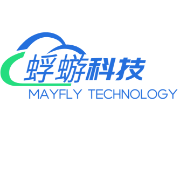
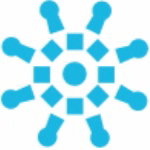
修改奈斐科技logo和联系人

diff --git a/about.html b/about.html
@@ -2,6 +2,9 @@
 <html>
  <head> 
   <meta http-equiv="Content-Type" content="text/html; charset=utf-8" /> 
+  <link rel="apple-touch-icon" sizes="180x180" href="/apple-touch-icon.png">
+  <link rel="icon" type="image/png" sizes="32x32" href="images/favicon-32x32.png">
+  <link rel="icon" type="image/png" sizes="16x16" href="images/favicon-16x16.png">
   <title>关于我们-about.html</title> 
   <link rel="stylesheet" type="text/css" href="css/basic.css" /> 
   <link rel="stylesheet" type="text/css" href="css/inner.css" /> 
@@ -27,7 +30,7 @@
           咨询热线：134 0207 4050
          </div> 
          <div class="mail">
-          咨询邮箱：sales@fuyou.com
+          咨询邮箱：sales@naifei.tech
          </div> 
          <div class="clear"></div> 
         </div> 
@@ -81,7 +84,7 @@
          我们是谁？
         </div> 
         <div class="general_con_c_ri_word">
-         蜉蝣科技（上海）有限公司简称&quot;蜉蝣&quot;，是一家专业的上海软件设计公司， 以领先的设计水平和技术实力，打造行业品牌、树立形象，为客户提供企业数字化转型方案、软件研发、网络营销、网站制作等服务。蜉蝣始终以务实、诚信为根本，不断创新和提高建站品质，通过对领先技术的掌握、对创意设计的研究、对客户形象的视觉传递、对应用系统的完美结合，为客户提供更好的一站式产业互联网解决方案，以客户的口碑塑造品牌，携手广大客户，共同发展进步。 
+         奈斐科技（上海）有限公司简称&quot;奈斐&quot;，是一家专业的上海软件设计公司， 以领先的设计水平和技术实力，打造行业品牌、树立形象，为客户提供企业数字化转型方案、软件研发、网络营销、网站制作等服务。奈斐始终以务实、诚信为根本，不断创新和提高建站品质，通过对领先技术的掌握、对创意设计的研究、对客户形象的视觉传递、对应用系统的完美结合，为客户提供更好的一站式产业互联网解决方案，以客户的口碑塑造品牌，携手广大客户，共同发展进步。 
         </div> 
         <div class="general_con_c_ri_int">
           以方正树立诚信人格，用思维创造崭新明天。
@@ -189,7 +192,7 @@
          <span>创作思维</span>，为您创作出一流的品牌互联网形象！
         </div> 
         <div class="general_con_c_ri_word">
-         蜉蝣服务团队是一支充满着热情的团队，执着、敏锐、追求更好是蜉蝣的特色 竭诚为客户提供服务是我们的理念。 一个人能走多远，取决于与谁同行，网络科技团队是一个富有理想和激情的团队，是一个蓬勃向上并富有朝气的团队，也是一个技术专业化、管理人性化、创新性和学习型的优秀团队。 
+         奈斐服务团队是一支充满着热情的团队，执着、敏锐、追求更好是奈斐的特色 竭诚为客户提供服务是我们的理念。 一个人能走多远，取决于与谁同行，网络科技团队是一个富有理想和激情的团队，是一个蓬勃向上并富有朝气的团队，也是一个技术专业化、管理人性化、创新性和学习型的优秀团队。 
         </div> 
        </div> 
        <div class="clear"></div> 
@@ -256,7 +259,7 @@
           <br /> 如果你爱设计、爱创意，有出众的美感和过剩的灵感 而且一直勤奋地创作了大量作品。那么，你很可能就是我们在找的人
          </div> 
          <div class="jion_mail">
-          咨询邮箱：hr@fuyou.com
+          咨询邮箱：hr@naifei.tech
          </div> 
         </div> 
        </div> 
@@ -367,7 +370,7 @@
   <footer>       
     <div class="bottom"> 
      <div class="bottom_con">
-       Copyright@2023 蜉蝣科技（上海）有限公司 &nbsp&nbsp&nbsp&nbsp&nbsp&nbsp 地址：中国（上海）自由贸易试验区张衡路200号2幢3层
+      Copyright@2023 上海奈斐科技有限公司 &nbsp&nbsp&nbsp&nbsp&nbsp&nbsp 地址：上海市宝山区长江西路2311号1-2层
      </div> 
     </div> 
    </footer> 

diff --git a/index.html b/index.html
@@ -5,18 +5,18 @@
   <meta http-equiv="Content-Type" content="text/html; charset=utf-8" />
   <meta name="keywords" content="企业数字化咨询，软件开发" />
   <meta name="description" content="软件开发，小程序，后台管理系统，企业数字化咨询" />
-  <meta itemprop="name" content="蜉蝣科技丨FUYOO -互联，互惠，共生" />
+  <meta itemprop="name" content="奈斐科技丨NAIFEI -互联，互惠，共生" />
   <meta http-equiv="Content-Type" content="text/html; charset=utf-8" />
   <meta http-equiv="Cache-Control" content="no-transform" />
   <meta http-equiv="X-UA-Compatible" content="IE=edge" />
   <meta name="format-detection" content="telephone=no,email=no,address=no" />
   <meta name="renderer" content="webkit" />
-  <meta property="og:url" content="http://www.fuyou.com">
+  <meta property="og:url" content="http://www.naifei.tech">
   <link rel="apple-touch-icon" sizes="180x180" href="/apple-touch-icon.png">
   <link rel="icon" type="image/png" sizes="32x32" href="images/favicon-32x32.png">
   <link rel="icon" type="image/png" sizes="16x16" href="images/favicon-16x16.png">
   <link rel="manifest" href="/site.webmanifest">
-  <title>蜉蝣科技丨FUYOU -互联，互惠，共生</title>
+  <title>奈斐科技丨NAIFEI -互联，互惠，共生</title>
   <script type="text/javascript">
     if ((navigator.userAgent.match(/(iPhone|iPod|Android|ios)/i))) {
       location.replace("http://demo1.mycodes.net/qiye/wangluokejigongsi");
@@ -48,7 +48,7 @@
             咨询热线：134 0207 4050
           </div>
           <div class="mail">
-            咨询邮箱：sales@fuyou.com
+            咨询邮箱：sales@naifei.tech
           </div>
           <div class="clear"></div>
         </div>
@@ -56,7 +56,7 @@
       <div class="head_bg">
         <div class="head">
           <div class="logo fl">
-            <h1><a href="index.html"><img src="images/logo.png" width="166px" height="64px" /></a></h1>
+            <h1><a href="index.html"><img src="images/logo.png" width="166px" height="55px" /></a></h1>
           </div>
           <div class="menu fr">
             <nav>
@@ -236,7 +236,7 @@
   <footer>
     <div class="bottom">
       <div class="bottom_con">
-        Copyright@2023 蜉蝣科技（上海）有限公司 &nbsp&nbsp&nbsp&nbsp&nbsp&nbsp 地址：中国（上海）自由贸易试验区张衡路200号2幢3层
+        Copyright@2023 上海奈斐科技有限公司 &nbsp&nbsp&nbsp&nbsp&nbsp&nbsp 地址：上海市宝山区长江西路2311号1-2层
       </div>
     </div>
   </footer>

diff --git a/service.html b/service.html
@@ -2,6 +2,9 @@
 <html>
  <head> 
   <meta http-equiv="Content-Type" content="text/html; charset=utf-8" /> 
+  <link rel="apple-touch-icon" sizes="180x180" href="/apple-touch-icon.png">
+  <link rel="icon" type="image/png" sizes="32x32" href="images/favicon-32x32.png">
+  <link rel="icon" type="image/png" sizes="16x16" href="images/favicon-16x16.png">
   <title>服务范围-service.html</title> 
   <link rel="stylesheet" type="text/css" href="css/basic.css" /> 
   <link rel="stylesheet" type="text/css" href="css/inner.css" /> 
@@ -24,7 +27,7 @@
               咨询热线：134 0207 4050
              </div> 
              <div class="mail">
-              咨询邮箱：sales@fuyou.com
+              咨询邮箱：sales@naifei.tech
              </div> 
              <div class="clear"></div> 
             </div> 
@@ -61,9 +64,9 @@
       <table width="400" border="0" cellspacing="0" cellpadding="0"> 
        <tbody>
         <tr> 
-         <td><img src="images/inner_content_title.png" alt="蜉蝣科技（上海）有限公司" /></td> 
+         <td><img src="images/inner_content_title.png" alt="奈斐科技（上海）有限公司" /></td> 
          <td>服务项目</td> 
-         <td><img src="images/inner_content_title.png" alt="蜉蝣科技（上海）有限公司" /></td> 
+         <td><img src="images/inner_content_title.png" alt="奈斐科技（上海）有限公司" /></td> 
         </tr> 
        </tbody>
       </table> 
@@ -301,7 +304,7 @@
   <footer>       
     <div class="bottom"> 
      <div class="bottom_con">
-       Copyright@2023 蜉蝣科技（上海）有限公司 &nbsp&nbsp&nbsp&nbsp&nbsp&nbsp 地址：中国（上海）自由贸易试验区张衡路200号2幢3层
+      Copyright@2023 上海奈斐科技有限公司 &nbsp&nbsp&nbsp&nbsp&nbsp&nbsp 地址：上海市宝山区长江西路2311号1-2层
      </div> 
     </div> 
    </footer>

diff --git a/contact.html b/contact.html
@@ -2,6 +2,9 @@
 <html>
  <head> 
   <meta http-equiv="Content-Type" content="text/html; charset=utf-8" /> 
+  <link rel="apple-touch-icon" sizes="180x180" href="/apple-touch-icon.png">
+  <link rel="icon" type="image/png" sizes="32x32" href="images/favicon-32x32.png">
+  <link rel="icon" type="image/png" sizes="16x16" href="images/favicon-16x16.png">
   <title>联系我们-contact.html</title> 
   <link rel="stylesheet" type="text/css" href="css/basic.css" /> 
   <link rel="stylesheet" type="text/css" href="css/inner.css" /> 
@@ -24,7 +27,7 @@
           咨询热线：134 0207 4050
          </div> 
          <div class="mail">
-          咨询邮箱：sales@fuyou.com
+          咨询邮箱：sales@naifei.tech
          </div> 
          <div class="clear"></div> 
         </div> 
@@ -84,7 +87,7 @@
          <div class="contact_type_ad_int">
           联系电话 | 021-8331 6336
           <br /> 传真 | 021-8389 6336
-          <br /> Email | service@fuyou.com
+          <br /> Email | service@naifei.tech
          </div> 
          <div class="contact_type_ad_button" style="background:#91bb4f;">
           Contact
@@ -147,7 +150,7 @@
   <footer>       
     <div class="bottom"> 
      <div class="bottom_con">
-      @2023 版权所有 蜉蝣科技（上海）有限公司 &nbsp&nbsp&nbsp&nbsp 地址：中国（上海）自由贸易试验区张衡路200号2幢3层
+      Copyright@2023 上海奈斐科技有限公司 &nbsp&nbsp&nbsp&nbsp&nbsp&nbsp 地址：上海市宝山区长江西路2311号1-2层
      </div> 
     </div> 
    </footer> 

diff --git a/solutions.html b/solutions.html
@@ -2,6 +2,9 @@
 <html>
  <head> 
   <meta http-equiv="Content-Type" content="text/html; charset=utf-8" /> 
+  <link rel="apple-touch-icon" sizes="180x180" href="/apple-touch-icon.png">
+  <link rel="icon" type="image/png" sizes="32x32" href="images/favicon-32x32.png">
+  <link rel="icon" type="image/png" sizes="16x16" href="images/favicon-16x16.png">
   <title>解决方案-solutions.html</title> 
   <link rel="stylesheet" type="text/css" href="css/basic.css" /> 
   <link rel="stylesheet" type="text/css" href="css/inner.css" /> 
@@ -27,7 +30,7 @@
               咨询热线：134 0207 4050
              </div> 
              <div class="mail">
-              咨询邮箱：sales@fuyou.com
+              咨询邮箱：sales@naifei.tech
              </div> 
              <div class="clear"></div> 
             </div> 
@@ -300,7 +303,7 @@
   <footer>       
     <div class="bottom"> 
      <div class="bottom_con">
-       Copyright@2023 蜉蝣科技（上海）有限公司 &nbsp&nbsp&nbsp&nbsp&nbsp&nbsp 地址：中国（上海）自由贸易试验区张衡路200号2幢3层
+      Copyright@2023 上海奈斐科技有限公司 &nbsp&nbsp&nbsp&nbsp&nbsp&nbsp 地址：上海市宝山区长江西路2311号1-2层
      </div> 
     </div> 
    </footer>

diff --git a/mobile.html b/mobile.html
@@ -2,6 +2,9 @@
 <html>
  <head> 
   <meta http-equiv="Content-Type" content="text/html; charset=utf-8" /> 
+  <link rel="apple-touch-icon" sizes="180x180" href="/apple-touch-icon.png">
+  <link rel="icon" type="image/png" sizes="32x32" href="images/favicon-32x32.png">
+  <link rel="icon" type="image/png" sizes="16x16" href="images/favicon-16x16.png">
   <title>移动终端-mobile.html</title> 
   <link rel="stylesheet" type="text/css" href="css/basic.css" /> 
   <link rel="stylesheet" type="text/css" href="css/inner.css" /> 
@@ -24,7 +27,7 @@
               咨询热线：134 0207 4050
              </div> 
              <div class="mail">
-              咨询邮箱：sales@fuyou.com
+              咨询邮箱：sales@naifei.tech
              </div> 
              <div class="clear"></div> 
             </div> 
@@ -285,7 +288,7 @@
   <footer>       
     <div class="bottom"> 
      <div class="bottom_con">
-       Copyright@2023 蜉蝣科技（上海）有限公司 &nbsp&nbsp&nbsp&nbsp&nbsp&nbsp 地址：中国（上海）自由贸易试验区张衡路200号2幢3层
+      Copyright@2023 上海奈斐科技有限公司 &nbsp&nbsp&nbsp&nbsp&nbsp&nbsp 地址：上海市宝山区长江西路2311号1-2层
      </div> 
     </div> 
    </footer>

diff --git a/cases.html b/cases.html
@@ -2,6 +2,9 @@
 <html>
  <head> 
   <meta http-equiv="Content-Type" content="text/html; charset=utf-8" /> 
+  <link rel="apple-touch-icon" sizes="180x180" href="/apple-touch-icon.png">
+  <link rel="icon" type="image/png" sizes="32x32" href="images/favicon-32x32.png">
+  <link rel="icon" type="image/png" sizes="16x16" href="images/favicon-16x16.png">
   <title>案例-cases.html</title> 
   <link rel="stylesheet" type="text/css" href="css/basic.css" /> 
   <link rel="stylesheet" type="text/css" href="css/inner.css" /> 
@@ -25,7 +28,7 @@
           咨询热线：134 0207 4050
          </div> 
          <div class="mail">
-          咨询邮箱：sales@fuyou.com
+          咨询邮箱：sales@naifei.tech
          </div> 
          <div class="clear"></div> 
         </div> 
@@ -247,7 +250,7 @@
   <footer>       
     <div class="bottom"> 
      <div class="bottom_con">
-       Copyright@2023 蜉蝣科技（上海）有限公司 &nbsp&nbsp&nbsp&nbsp&nbsp&nbsp 地址：中国（上海）自由贸易试验区张衡路200号2幢3层
+      Copyright@2023 上海奈斐科技有限公司 &nbsp&nbsp&nbsp&nbsp&nbsp&nbsp 地址：上海市宝山区长江西路2311号1-2层
      </div> 
     </div> 
    </footer>

diff --git a/news.html b/news.html
@@ -1,7 +1,10 @@
 <!DOCTYPE html>
 <html>
  <head> 
-  <meta http-equiv="Content-Type" content="text/html; charset=utf-8" /> 
+  <meta http-equiv="Content-Type" content="text/html; charset=utf-8" />
+  <link rel="apple-touch-icon" sizes="180x180" href="/apple-touch-icon.png">
+  <link rel="icon" type="image/png" sizes="32x32" href="images/favicon-32x32.png">
+  <link rel="icon" type="image/png" sizes="16x16" href="images/favicon-16x16.png"> 
   <title>新闻动态-news.html</title> 
   <link rel="stylesheet" type="text/css" href="css/basic.css" /> 
   <link rel="stylesheet" type="text/css" href="css/inner.css" /> 
@@ -395,7 +398,7 @@
   <footer>       
     <div class="bottom"> 
      <div class="bottom_con">
-       Copyright@2023 蜉蝣科技（上海）有限公司 &nbsp&nbsp&nbsp&nbsp&nbsp&nbsp 地址：中国（上海）自由贸易试验区张衡路200号2幢3层
+      Copyright@2023 上海奈斐科技有限公司 &nbsp&nbsp&nbsp&nbsp&nbsp&nbsp 地址：上海市宝山区长江西路2311号1-2层
      </div> 
     </div> 
    </footer>

diff --git a/cases_detail.html b/cases_detail.html
@@ -2,6 +2,9 @@
 <html>
  <head> 
   <meta http-equiv="Content-Type" content="text/html; charset=utf-8" /> 
+  <link rel="apple-touch-icon" sizes="180x180" href="/apple-touch-icon.png">
+  <link rel="icon" type="image/png" sizes="32x32" href="images/favicon-32x32.png">
+  <link rel="icon" type="image/png" sizes="16x16" href="images/favicon-16x16.png">
   <title>案例详情-cases_detail.html</title> 
   <link href="css/basic.css" rel="stylesheet" type="text/css" /> 
   <link rel="stylesheet" type="text/css" href="/Public/Webcss/basic.css" /> 
@@ -82,7 +85,7 @@
   <footer>       
     <div class="bottom"> 
      <div class="bottom_con">
-       Copyright@2023 蜉蝣科技（上海）有限公司 &nbsp&nbsp&nbsp&nbsp&nbsp&nbsp 地址：中国（上海）自由贸易试验区张衡路200号2幢3层
+      Copyright@2023 上海奈斐科技有限公司 &nbsp&nbsp&nbsp&nbsp&nbsp&nbsp 地址：上海市宝山区长江西路2311号1-2层
      </div> 
     </div> 
    </footer> 

diff --git a/solutions_detail.html b/solutions_detail.html
@@ -2,6 +2,9 @@
 <html>
  <head> 
   <meta http-equiv="Content-Type" content="text/html; charset=utf-8" /> 
+  <link rel="apple-touch-icon" sizes="180x180" href="/apple-touch-icon.png">
+  <link rel="icon" type="image/png" sizes="32x32" href="images/favicon-32x32.png">
+  <link rel="icon" type="image/png" sizes="16x16" href="images/favicon-16x16.png">
   <title>解决方案-详情-solutions_detail.html</title> 
   <link rel="stylesheet" type="text/css" href="css/basic.css" /> 
   <link rel="stylesheet" type="text/css" href="css/inner.css" /> 
@@ -82,7 +85,7 @@
   <footer>       
     <div class="bottom"> 
      <div class="bottom_con">
-       Copyright@2023 蜉蝣科技（上海）有限公司 &nbsp&nbsp&nbsp&nbsp&nbsp&nbsp 地址：中国（上海）自由贸易试验区张衡路200号2幢3层
+      Copyright@2023 上海奈斐科技有限公司 &nbsp&nbsp&nbsp&nbsp&nbsp&nbsp 地址：上海市宝山区长江西路2311号1-2层
      </div> 
     </div> 
    </footer>

diff --git a/news_detail.html b/news_detail.html
@@ -2,6 +2,9 @@
 <html>
  <head> 
   <meta http-equiv="Content-Type" content="text/html; charset=utf-8" /> 
+  <link rel="apple-touch-icon" sizes="180x180" href="/apple-touch-icon.png">
+  <link rel="icon" type="image/png" sizes="32x32" href="images/favicon-32x32.png">
+  <link rel="icon" type="image/png" sizes="16x16" href="images/favicon-16x16.png">
   <title>新闻详情-news_detail.html</title> 
   <link rel="stylesheet" type="text/css" href="css/basic.css" /> 
   <link rel="stylesheet" type="text/css" href="css/inner.css" /> 
@@ -160,7 +163,7 @@
   <footer>       
     <div class="bottom"> 
      <div class="bottom_con">
-       Copyright@2023 蜉蝣科技（上海）有限公司 &nbsp&nbsp&nbsp&nbsp&nbsp&nbsp 地址：中国（上海）自由贸易试验区张衡路200号2幢3层
+      Copyright@2023 上海奈斐科技有限公司 &nbsp&nbsp&nbsp&nbsp&nbsp&nbsp 地址：上海市宝山区长江西路2311号1-2层
      </div> 
     </div> 
    </footer>
